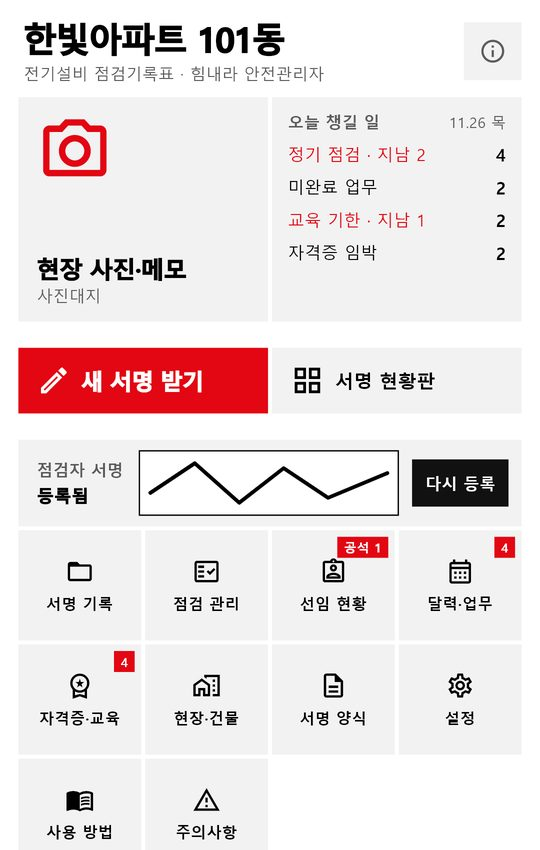
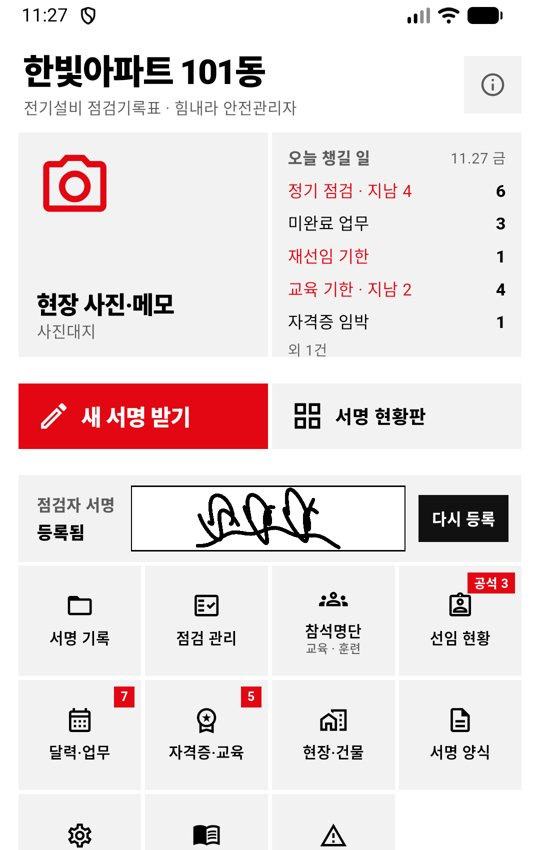
Add files via upload

diff --git a/app.html b/app.html
@@ -4,7 +4,7 @@
 <meta charset="utf-8">
 <meta name="viewport" content="width=device-width, initial-scale=1">
 <title>힘내라 안전관리자 — 전자서명·사진대지, 폰 하나로</title>
-<meta name="description" content="교육·훈련 참석명단 서명, 현장 사진·메모와 사진대지, 내 양식에 서명, 달력·당직·업무, 업체 연락처, 선임·자격증·교육 관리까지. 현장 안전관리자를 위한 무료 앱.">
+<meta name="description" content="교육·훈련 참석명단 서명, 현장 사진·메모와 사진대지, 내 양식에 서명, 달력·당직·업무, 업체 연락처, 선임·자격증·교육 관리, PC 프로그램과 자료 주고받기까지. 현장 안전관리자를 위한 무료 앱.">
 <meta property="og:title" content="힘내라 안전관리자">
 <meta property="og:description" content="전자서명·사진대지, 폰 하나로.">
 <meta property="og:image" content="icon.png">
@@ -99,6 +99,7 @@ footer .sp{margin-left:auto}
     <a href="#f-form"><b>원하는 양식에 서명 채우기</b><span>내 PDF·사진 양식을 불러와 그 위에 서명·칸 채우기</span></a>
     <a href="#f-cal"><b>달력 · 당직 · 업무 · 정기 점검</b><span>색깔별 달력 · 기간 골라 보고서·글로 내보내기·앱끼리 공유</span></a>
     <a href="#f-vendor"><b>업체 연락처</b><span>폰 연락처에서 가져오기 · 연락처 보고서 · 앱끼리 공유</span></a>
+    <a href="#f-pc"><b>PC 프로그램과 자료 주고받기</b><span>선임·사람·교육·당직·업체 연락처를 파일 하나로 · 합치기</span></a>
     <a href="#f-sign"><b>세대·명단 전자서명 · 서명 현황판</b><span>소방·전기 점검표 · 대리인 서명 · 서명한 곳/남은 곳 한눈에</span></a>
     <a href="#f-notice"><b>점검 안내문 만들기</b><span>엘리베이터·게시판용 A4 안내문 · 자동 임시저장</span></a>
     <a href="#f-appoint"><b>선임 현황</b><span>현장별 선임·해임 이력과 공석, 재선임 기한</span></a>
@@ -106,13 +107,19 @@ footer .sp{margin-left:auto}
     <a href="#f-mode"><b>주간·야간(다크) 화면 모드</b><span>주간 3가지 · 야간 2가지 · 시간에 따라 자동 · 휴대폰 설정 따라가기</span></a>
     <a href="#f-etc"><b>결재란 · 백업</b><span>결재란 1~5칸 · 첫 쪽만·모든 쪽·숨기기 · 새 폰으로 옮기기</span></a>
   </div>
-  <p class="nexth">출시 예정<small>다음 업데이트 (0.8)</small></p>
+  <p class="nexth">출시 예정<small>1.0 업데이트</small></p>
+  <div class="all next">
+    <a><b>힘내라 안전관리자 PC버전</b><span>설치형 PC 프로그램과 앱 연동 (체험판 제공 예정)</span></a>
+  </div>
+  <p class="nexth">출시 예정<small>1.1 업데이트</small></p>
   <div class="all next">
     <a><b>전기 계산기 모음</b><span>현장에서 자주 쓰는 전기 계산을 한곳에</span></a>
     <a><b>접지·절연저항 측정 기록</b><span>측정값 기록과 보관</span></a>
     <a><b>계전기 시험 계산기</b><span>계전기 시험 계산</span></a>
     <a><b>열화상 사진 온도 메모</b><span>열화상 사진에 온도 메모 남기기</span></a>
     <a><b>하자 관리</b><span>하자 접수부터 조치까지 기록</span></a>
+    <a><b>비상 연락망</b><span>누르면 바로 전화</span></a>
+    <a><b>도면·단선결선도 보관함</b><span>현장 도면을 폰에서 바로 보기</span></a>
   </div>
 </section>
 
@@ -124,7 +131,7 @@ footer .sp{margin-left:auto}
       <ul><li>제목·일시·교육명을 적고 참석자 인원만큼 명단 만들기 (나중에 늘리기·줄이기)</li>
       <li>이름을 누르면 서명, 다음 사람으로 자동으로 넘어가요</li>
       <li>직급·직책, 서명 순서 바꾸기, 불참 사유(연차·교육·출장·병가 등)</li>
-      <li>교육·훈련 사진 2·4·6·8장 쪽 붙이기 · 가로·세로 · 명단 1줄/2줄</li>
+      <li>[사진대지] 버튼으로 교육·훈련 사진 바로 넣기(넣은 장수 표시) · 2·4·6·8장 · 가로·세로 · 명단 1줄/2줄</li>
       <li>미리보기 후 A4 PDF·사진으로 저장 · 서명 현황판에서도 확인</li></ul></div>
     <div class="pics two"><img src="img/att.jpg" alt="참석명단 서명 화면" loading="lazy"><img src="img/attdoc.jpg" alt="참석명단 문서 미리보기" loading="lazy"></div>
   </div>
@@ -165,8 +172,17 @@ footer .sp{margin-left:auto}
     <div class="pics"><img src="img/vendor.jpg" alt="업체 연락처 내보내기 화면" loading="lazy" style="max-width:166px"></div>
   </div>
 
+  <div class="f" id="f-pc">
+    <div><h3><small>06</small>PC 프로그램과 자료 주고받기</h3>
+      <ul><li>PC 프로그램(힘내라 안전관리자 PC버전)과 선임·사람·교육·자격증·업무·당직·정기 점검·일정·업체 연락처를 파일 하나로 주고받기</li>
+      <li>카카오톡 「나와의 채팅」·메일·USB로 파일만 옮기면 끝 — 서버를 거치지 않아요</li>
+      <li>[합치기]는 같은 기록만 고치고 앱에만 있는 기록은 그대로</li>
+      <li>금액·연차·첨부 파일은 PC에만 남아요</li></ul></div>
+    <div class="pics" style="flex-direction:column"><img src="img/pc.jpg" alt="PC 프로그램 화면" loading="lazy"><img src="img/pcx.jpg" alt="앱의 PC 주고받기 화면" loading="lazy" style="max-width:166px"></div>
+  </div>
+
   <div class="f" id="f-sign">
-    <div><h3><small>06</small>세대·명단 전자서명 · 서명 현황판</h3>
+    <div><h3><small>07</small>세대·명단 전자서명 · 서명 현황판</h3>
       <ul><li>건물(동·층·호수) 또는 사람 명단으로 서명 받기</li>
       <li>양호·미흡 점검 결과와 특이사항 입력</li>
       <li>서명한 곳과 남은 곳, 부재·거부·재방문을 한눈에</li>
@@ -175,7 +191,7 @@ footer .sp{margin-left:auto}
   </div>
 
   <div class="f" id="f-notice">
-    <div><h3><small>07</small>점검 안내문 만들기</h3>
+    <div><h3><small>08</small>점검 안내문 만들기</h3>
       <ul><li>제목·점검 대상·기간·시간·점검 내용·협조 문구로 A4 안내문</li>
       <li>쓰다가 나가도 자동 임시저장, 이어서 쓰기</li>
       <li>결재란 넣기 · 미리 보기 후 PDF·그림 저장</li></ul></div>
@@ -183,21 +199,21 @@ footer .sp{margin-left:auto}
   </div>
 
   <div class="f" id="f-appoint">
-    <div><h3><small>08</small>선임 현황</h3>
+    <div><h3><small>09</small>선임 현황</h3>
       <ul><li>현장별 선임·해임 이력과 공석</li>
       <li>재선임 기한 알림</li></ul></div>
     <div class="pics"><img src="img/appoint.jpg" alt="선임 현황 화면" loading="lazy" style="max-width:166px"></div>
   </div>
 
   <div class="f" id="f-edu">
-    <div><h3><small>09</small>자격증 · 교육 기한</h3>
+    <div><h3><small>10</small>자격증 · 교육 기한</h3>
       <ul><li>사람별 자격증 만료일</li>
       <li>법정 교육 기한 알림 · 이수 기록</li></ul></div>
     <div class="pics"><img src="img/edu.jpg" alt="자격증·교육 화면" loading="lazy" style="max-width:166px"></div>
   </div>
 
   <div class="f" id="f-mode">
-    <div><h3><small>10</small>주간·야간(다크) 화면 모드</h3>
+    <div><h3><small>11</small>주간·야간(다크) 화면 모드</h3>
       <ul><li>주간 화면 3가지: 주간 · 야외 고대비(햇빛 아래 굵은 테두리) · 눈 편한 종이</li>
       <li>야간(다크) 화면 2가지: 야간 · 터널 야간작업(어두운 곳에서 눈부심 줄임)</li>
       <li>언제 바꿀지: 주간 모드 · 야간 모드 · 시간에 따라 자동 · 휴대폰 설정 따라가기</li></ul></div>
@@ -205,7 +221,7 @@ footer .sp{margin-left:auto}
   </div>
 
   <div class="f" id="f-etc">
-    <div><h3><small>11</small>결재란 · 백업</h3>
+    <div><h3><small>12</small>결재란 · 백업</h3>
       <ul><li>결재란 1~5칸, 첫 쪽만·모든 쪽·숨기기</li>
       <li>백업 파일로 새 폰에 옮기기</li></ul></div>
     <div></div>
@@ -217,6 +233,7 @@ footer .sp{margin-left:auto}
   <details><summary>무료인가요?</summary><p>네, 무료로 쓸 수 있어요. 앱 안에 광고(Google AdMob)가 나와요.</p></details>
   <details><summary>회원가입이 필요한가요? 자료는 어디에 저장되나요?</summary><p>회원가입 없이 바로 써요. 서명·사진·보고서는 서버로 보내지 않고 사용자의 폰에만 저장돼요. 백업 파일로 새 폰에 옮길 수 있어요.</p></details>
   <details><summary>전자서명이 법적 효력이 있나요?</summary><p>앱에서 받은 서명의 법적 효력은 검증되지 않았어요. 중요한 서류는 소속 기관의 기준을 확인하고 사용해 주세요.</p></details>
+  <details><summary>PC에서도 쓸 수 있나요?</summary><p>PC 프로그램(힘내라 안전관리자 PC버전)과 파일로 자료를 주고받을 수 있어요. 앱의 [설정 → 백업·복원 → PC와 주고받기]에서 써요. PC버전은 홈페이지 「자동화 엑셀」 탭에서 안내해요.</p></details>
   <details><summary>아이폰도 되나요?</summary><p>지금은 안드로이드(Google Play)만 지원해요.</p></details>
 </section>
 

diff --git a/excel/posts.js b/excel/posts.js
@@ -152,10 +152,10 @@ window.EXCEL_POSTS = [
   },
   {
     id: "staff-manager",
-    title: "안전관리자 선해임·인원 관리 (PC 프로그램)",
+    title: "힘내라 안전관리자 PC버전 (선해임·인원 관리)",
     category: "인원 관리",
     type: "PC 프로그램 (크롬·엣지)",
-    img: "staff-manager.jpg", imgs: ["staff-manager.jpg"], mock: true,
+    img: "staff-1-dash.jpg", imgs: ["staff-1-dash.jpg", "staff-2-appoint.jpg", "staff-3-edu.jpg", "staff-4-cal.jpg", "staff-5-duty.jpg", "staff-6-works.jpg", "staff-7-app.jpg"],
     summary: "선임 현황·공석, 교육·자격증 기한, 연차, 당직 근무표, 업무 달력, 업체 연락망을 파일 하나로 관리하는 PC 프로그램",
     intro: "설치가 필요 없는 PC 프로그램입니다. 파일을 크롬이나 엣지로 열기만 하면 바로 쓸 수 있고, 자료는 내 PC에만 저장됩니다. 선임 기한, 교육 기한, 당직 순번을 더 이상 따로 챙기지 않아도 됩니다.",
     features: [
@@ -164,7 +164,9 @@ window.EXCEL_POSTS = [
       "연차: 기산일 기준 발생 연차·사용 내역·소진율 자동 계산",
       "당직: 순번대로 당직 자동 배정, 공휴일·대체공휴일 반영, 근무표 출력",
       "달력·업무: 업무 내역·정기 점검·일정을 색깔별 달력으로, 업체 연락망 포함",
-      "오늘 요약·보고서 인쇄·엑셀로 받기, 결재란 설정, 보기 전용 암호 기능"
+      "오늘 요약·보고서 인쇄·엑셀로 받기, 결재란 설정, 보기 전용 암호 기능",
+      "폰 앱(힘내라 안전관리자)과 자료 주고받기: 선임·사람·교육·자격증·업무·당직·정기 점검·업체를 파일 하나로 (금액·연차는 PC에만)",
+      "자료는 암호로 잠겨 저장 · 자동 백업 · 변경 이력 · 되돌리기"
     ],
     forWho: ["안전관리자를 여러 명 관리하는 담당자", "시설팀·안전팀 팀장", "선임·교육 기한을 놓치기 싫은 분"]
   }

diff --git a/index.html b/index.html
@@ -118,7 +118,7 @@ footer .sp{margin-left:auto}
 
   <section class="low">
     <h2>힘내라 안전관리자 <small>Android</small></h2>
-    <p class="feats">참석명단 서명 · 사진대지 · 내 양식에 서명 · 달력·당직 · 업체 연락처 · 서명 현황판 · 선임·교육 · 주간·야간(다크) 화면<br>출시 예정: 전기 계산기 · 접지·절연저항 기록 · 계전기 시험 · 열화상 온도 메모 · 하자 관리</p>
+    <p class="feats">참석명단 서명 · 사진대지 · 내 양식에 서명 · 달력·당직 · 업체 연락처 · PC 프로그램과 자료 주고받기 · 서명 현황판 · 선임·교육 · 주간·야간(다크) 화면<br>출시 예정: PC버전(1.0) · 전기 계산기 · 접지·절연저항 기록 · 계전기 시험 · 열화상 온도 메모 · 하자 관리 · 비상 연락망 · 도면·단선결선도(1.1)</p>
     <div class="shots">
 <img src="img/att.jpg" alt="참석명단 서명" loading="lazy">
 <img src="img/sheet.jpg" alt="사진대지" loading="lazy">
